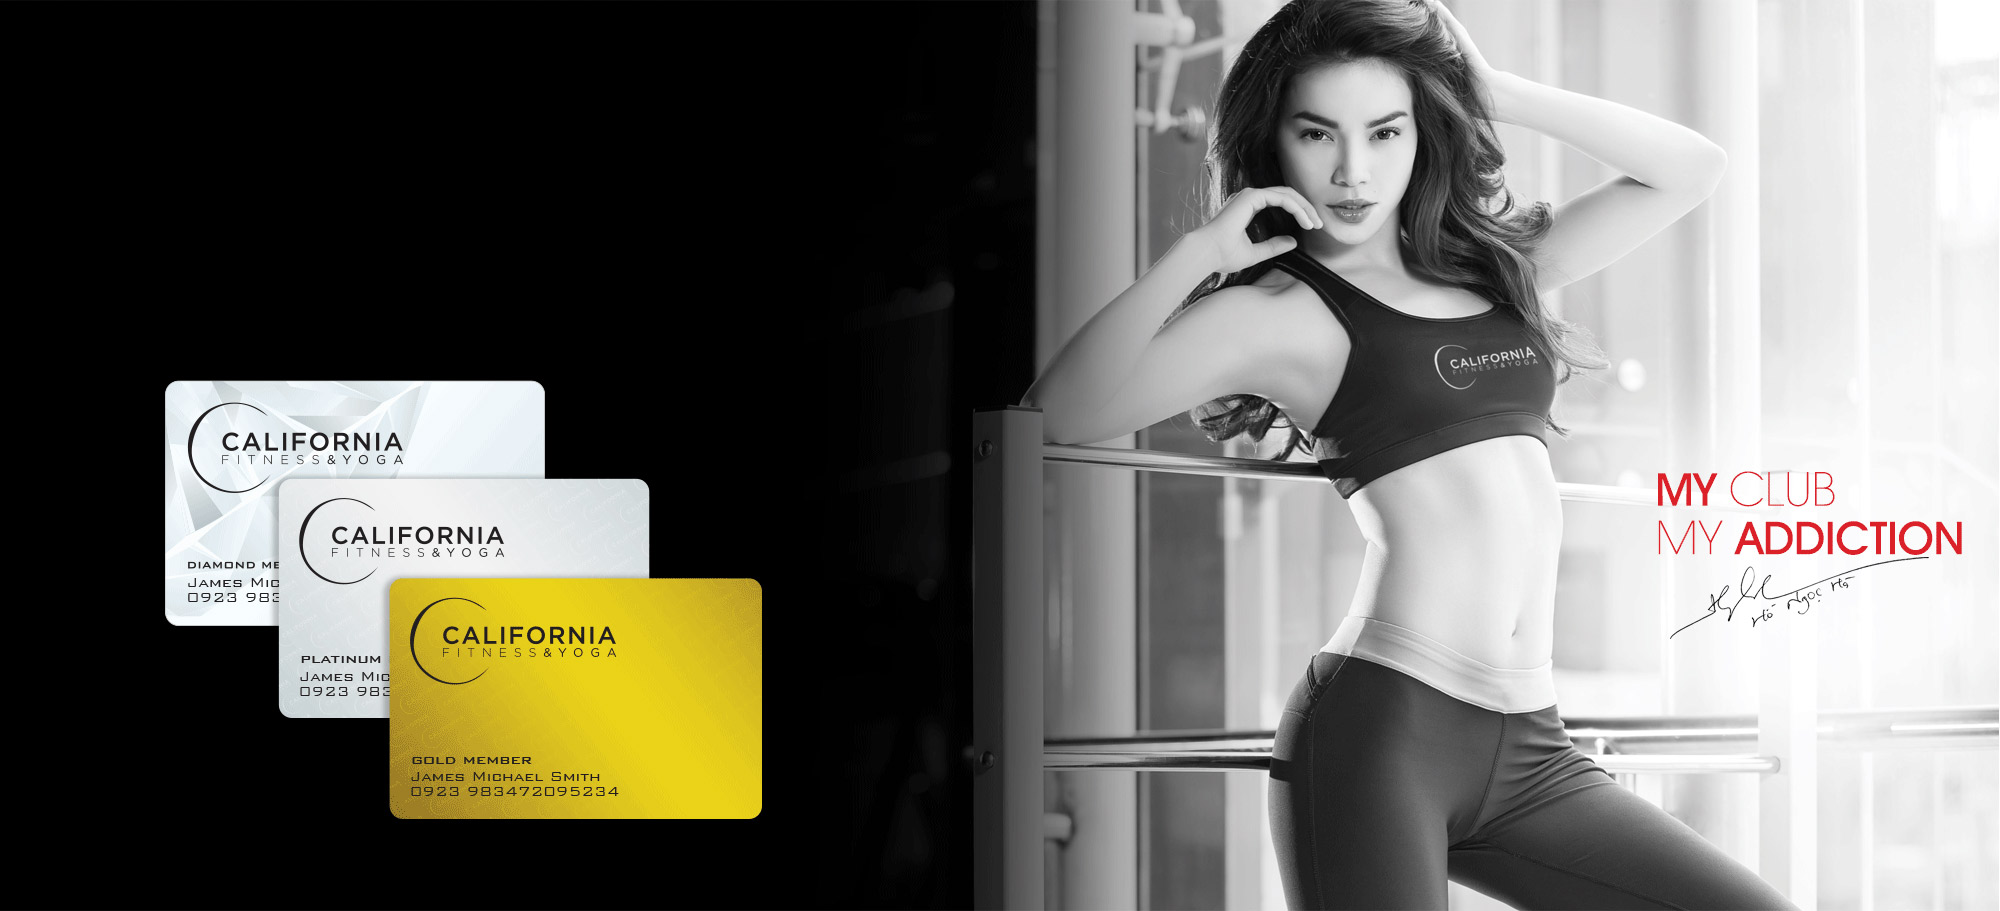
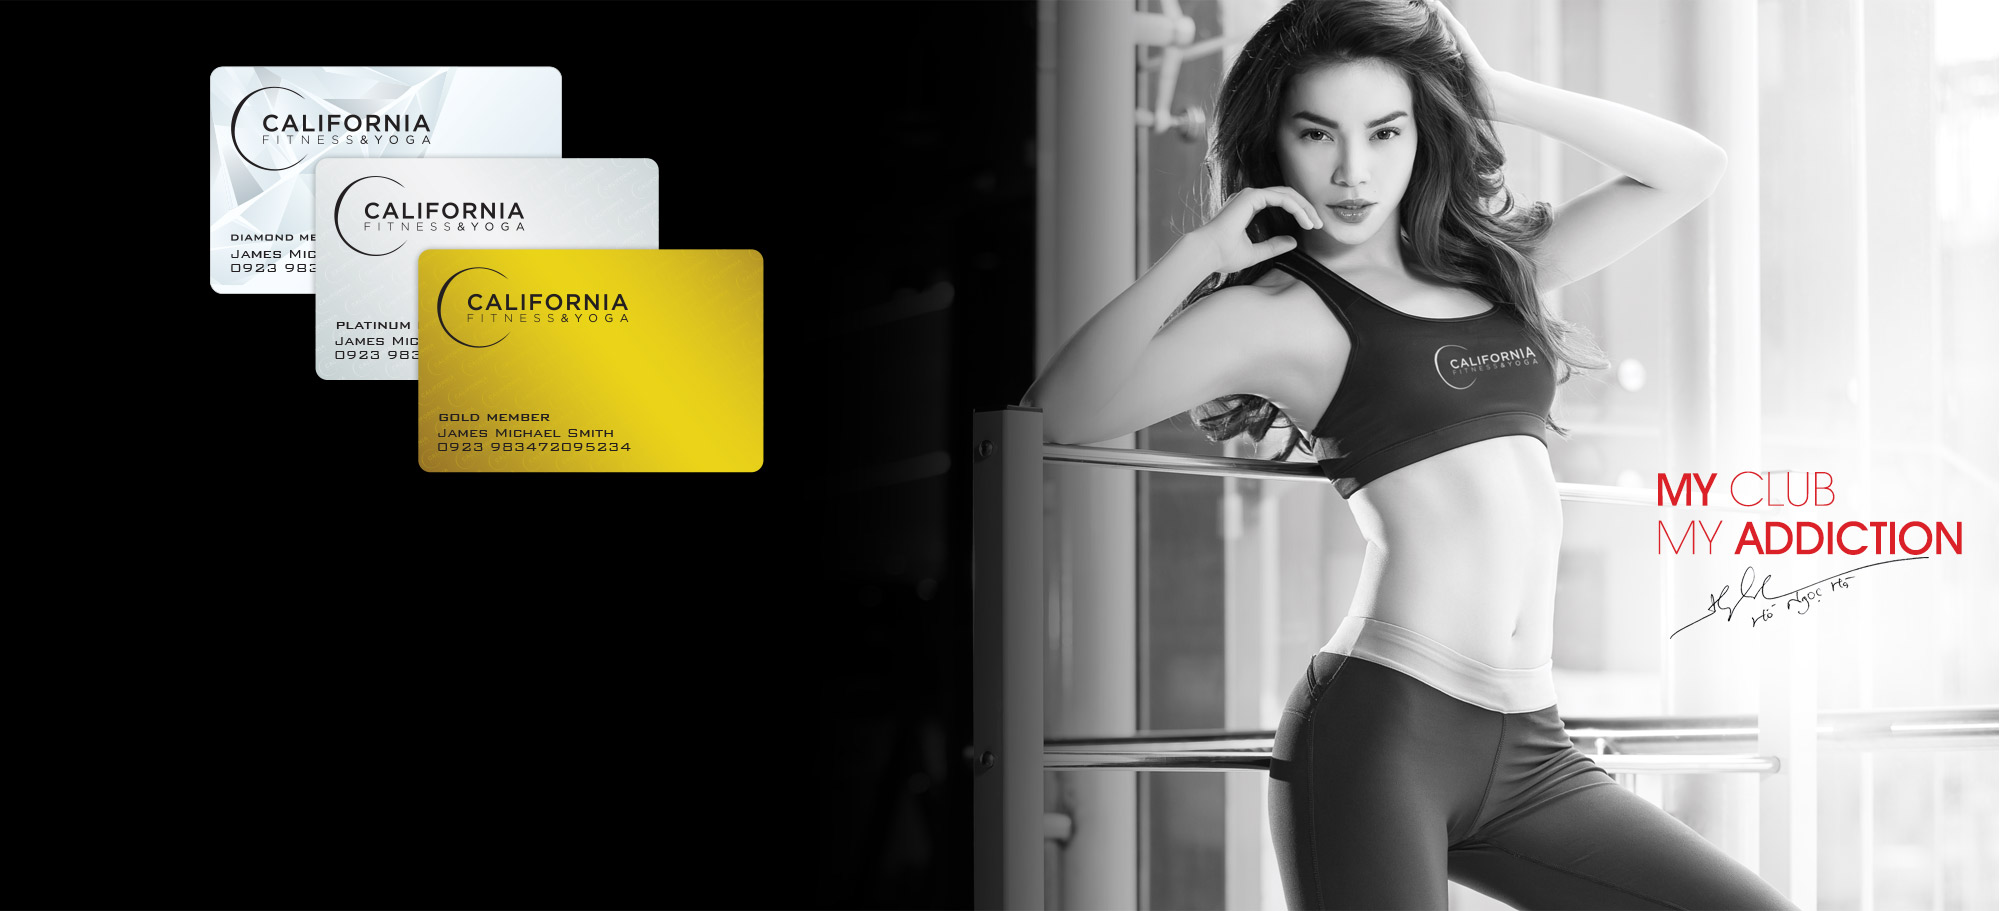
uodate headline membership page

Changed region(s): [[0.062, 0.0615, 0.403, 0.9221]]

diff --git a/users/SongPham/cfyc/app/stylesheets/files/cfyc-memberships.scss b/users/SongPham/cfyc/app/stylesheets/files/cfyc-memberships.scss
@@ -5,14 +5,82 @@
     }
     .banner-top {
         position: relative;
-        h1.headline {
-            @include font-size(130px);
-            color: $white;
-            font-weight: 100;
+        fieldset {
+            position: relative;
+            border: 2px solid $red;
+            padding:0 30px;
+            @media (max-width: 767px) {
+                padding: 0 10px;
+            }
+            @media (max-width: 484px) {
+                padding: 0 5px;
+            }
+            legend {
+                color: $red;
+                text-align: center;
+                width: auto;
+                font-size: 35px;
+                border: none;
+                margin-bottom: 0;
+                padding-left: 20px;
+                padding-right: 20px;
+                @media (max-width: 2000px) {
+                    font-size: 2.5vw;
+                }
+                @media (max-width: 767px){
+                    padding: 0;
+                }
+            }
+        }
+        .carousel-caption {
+            font-size: 40px;
+            left: 10%;
+            bottom: 13%;
+            right: 0;
+            color:$red;
+            line-height: 40px;
+            text-align: left;
+            display: inline-block;
+            width: 550px;
             text-transform: uppercase;
-            position: absolute;
-            top: 3%;
-            left: 7%;
+            text-shadow: 1px 1px 1px rgba(0, 0, 0, 0.5);
+            text-align: center;
+            @media (max-width: 2000px) {
+                max-width: 40vw;
+            }
+
+            @media (max-width: 1360px) {
+                bottom: 2%;
+            }
+            @media (max-width: 991px) {
+                max-width: 50vw;
+                left: 5%;
+            }
+            strong {font-weight: 300;}
+            hr { background: $red; height: 2px; border: none; max-width: 50%; margin: 20px auto;
+                @media (max-width: 767px) { margin: 10px auto 0 auto;}
+                @media (max-width: 480px) { margin: 3px auto; height: 1px;}
+            }
+            span{ color: $white;font-size: 16px;display: inline-block; margin-bottom: 30px; line-height: 150%;
+                 @media (min-width: 768px) and (max-width: 991px) {margin-top: 0px;padding-top: 10px;}
+                 @media (max-width: 767px){font-size: 14px;margin-top: 0px;padding-top: 10px;margin-bottom: 20px;}
+                 @media (max-width: 480px){font-size: .8em; margin-bottom: 10px; padding-top: 0; margin-top: 0;}
+            }
+            .red-btn {
+                position: absolute;
+                width: 100%;
+                left: 0px;
+                bottom: -20px;
+                a{color:$white;font-size: 12px;background:$red;border-radius: 20px;text-decoration: none; position: relative;margin: 0 auto; padding: 10px 30px; bottom: 0;
+                  @media (max-width: 767px) {padding: 1% 7%;}
+                  @media (max-width: 480px) {font-size: .8em;}
+                }
+                @media (min-width: 768px) and (max-width: 991px) {bottom: -13px;}
+                @media (max-width: 767px) {bottom: -8px; }
+            }
+            @media (min-width: 768px) and (max-width: 991px) {font-size:40px;line-height: normal;}
+            @media (max-width: 767px) {width: auto;font-size: 16px;bottom: 0;line-height: normal;;}
+            @media (max-width: 480px){width: auto;right: 5%;font-size: 10px;bottom: -5%;line-height: normal;left: 5%;}
         }
     }
     .video {

diff --git a/users/SongPham/cfyc/app/stylesheets/files/member-testimonials.scss b/users/SongPham/cfyc/app/stylesheets/files/member-testimonials.scss
@@ -4,7 +4,7 @@
     img, p, h1, h2, h3, h4, a {@include transition(all .4s ease);}
     .white-space {padding:10px 0; clear:both;}
     .white-space-2x {padding: 20px 0; clear: both;}
-    .white-space-3x {padding: 30px 0; clear: both;} 
+    .white-space-3x {padding: 30px 0; clear: both;}
 
     // TOP BANNER
     .top-banner {
@@ -39,7 +39,7 @@
             text-shadow: 1px 1px 1px rgba(0, 0, 0, 0.5);
             text-align: center;
             strong {font-weight: 300;}
-            span{color: $white;font-size: 16px;display: inline-block;margin-top: 20px;margin-bottom: 30px;border-top:1px solid $red; line-height: 150%; padding-top: 15px; 
+            span{color: $white;font-size: 16px;display: inline-block;margin-top: 20px;margin-bottom: 30px;border-top:1px solid $red; line-height: 150%; padding-top: 15px;
                  @media (min-width: 768px) and (max-width: 991px) {margin-top: 0px;padding-top: 10px;}
                  @media (max-width: 767px){font-size: 14px;margin-top: 10px;padding-top: 10px;margin-bottom: 20px;}
                  @media (max-width: 480px){font-size: 14px;margin-top: 10px;padding-top: 10px;margin-bottom: 20px;}
@@ -61,9 +61,9 @@
         }
     }
 
-    // SLIDER 
+    // SLIDER
     #member-list {
-        .carousel-control { 
+        .carousel-control {
             background :0 0;
             .glyphicon {background: url(../img/member-testimonials/arrows.png) no-repeat;height: 50px;width: 27px;&:before {content: "";}}
             .glyphicon-chevron-left {;margin-left: 0;left: 80%;}
@@ -76,7 +76,7 @@
                 &:hover {
                     img { border-color: $red;}
                     p {color: $red;}
-                } 
+                }
             }
             .active {
                 img { border-color: $red; }
@@ -85,7 +85,7 @@
         }
     }
 
-    // STORY 
+    // STORY
     .story {
         display: none;
         .image {
@@ -101,8 +101,8 @@
             h3 {
                 margin: 2% 2%;
                 @include font-size(18px);
-                text-transform: uppercase; 
-                text-align: center; 
+                text-transform: uppercase;
+                text-align: center;
                 color: #868686;
                 font-weight: bold;
             }

diff --git a/users/SongPham/cfyc/pages/member-testimonials.php b/users/SongPham/cfyc/pages/member-testimonials.php
@@ -12,7 +12,7 @@
                         <fieldset>
                             <legend>We make life better</legend>
                             <span>
-                                Over 100,000 people have trusted us to lose 
+                                Over 100,000 people have trusted us to lose
                                 weight, build muscle and make their life better
                                 Visit us for a free membership trial today
                             </span>
@@ -38,7 +38,7 @@
                     </div>
                     <div class="col-md-2 col-sm-3 col-xs-6 text-center box active">
                         <a href='1'><img src="<?php echo USER_BASE_URL . "/img/member-testimonials/story-1.png" ?>" alt=''></a>
-                        <p>Do Hoang Lan</p> 
+                        <p>Do Hoang Lan</p>
                     </div>
                     <div class="col-md-2 col-sm-3 col-xs-6 text-center box">
                         <a href='2'><img src="<?php echo USER_BASE_URL . "/img/member-testimonials/story-2.png" ?>" alt=""></a>
@@ -46,7 +46,7 @@
                     </div>
                     <div class="col-md-2 col-sm-3 col-xs-6 text-center box">
                         <a href='3'><img src="<?php echo USER_BASE_URL . "/img/member-testimonials/story-1.png" ?>" alt=''></a>
-                        <p>Do Hoang Lan</p> 
+                        <p>Do Hoang Lan</p>
                     </div>
                     <div class="col-md-2 col-sm-3 col-xs-6 text-center box">
                         <a href='4'><img src="<?php echo USER_BASE_URL . "/img/member-testimonials/story-2.png" ?>" alt=""></a>
@@ -60,7 +60,7 @@
                     </div>
                     <div class="col-md-2 col-sm-3 col-xs-6 text-center box">
                         <a href='5'><img src="<?php echo USER_BASE_URL . "/img/member-testimonials/story-1.png" ?>" alt=''></a>
-                        <p>Do Hoang Lan</p> 
+                        <p>Do Hoang Lan</p>
                     </div>
                     <div class="col-md-2 col-sm-3 col-xs-6 text-center box">
                         <a href='6'><img src="<?php echo USER_BASE_URL . "/img/member-testimonials/story-2.png" ?>" alt=""></a>
@@ -68,7 +68,7 @@
                     </div>
                     <div class="col-md-2 col-sm-3 col-xs-6 text-center box">
                         <a href='7'><img src="<?php echo USER_BASE_URL . "/img/member-testimonials/story-1.png" ?>" alt=''></a>
-                        <p>Do Hoang Lan</p> 
+                        <p>Do Hoang Lan</p>
                     </div>
                     <div class="col-md-2 col-sm-3 col-xs-6 text-center box">
                         <a href='8'><img src="<?php echo USER_BASE_URL . "/img/member-testimonials/story-2.png" ?>" alt=""></a>

diff --git a/users/SongPham/cfyc/pages/cfyc-memberships.php b/users/SongPham/cfyc/pages/cfyc-memberships.php
@@ -1,8 +1,19 @@
 <div class="container-fluid page cfyc-memberships">
 <?php include USER_BASE_PATH . '/templates/nav-bar.php'; ?>
     <div class="row banner-top">
-        <img src="<?php echo USER_BASE_URL ?>/img/cfyc-memberships/bg-header.jpg" class="img-responsive banner" onmousedown="return false;"/>
-        <h1 class="headline">Are you <br/>a member?</h1>
+        <img src="<?php echo USER_BASE_URL ?>/img/cfyc-memberships/bg-header.jpg" class="img-responsive banner" onmousedown="return false;" alt="Are you a member"/>
+        <div class="carousel-caption">
+            <fieldset>
+                <legend>Are you a member?</legend>
+                <hr/>
+                <span>
+                    Discover the benefits of a california fitness & yoga membership get a free membership trial today
+                </span>
+                <div class="red-btn">
+                <a class="cta" href="#" title="Discover Cali Dance">Get a trial</a>
+                </div>
+            </fieldset>
+        </div>
     </div>
     <div class="container-page">
         <div class="row video">
